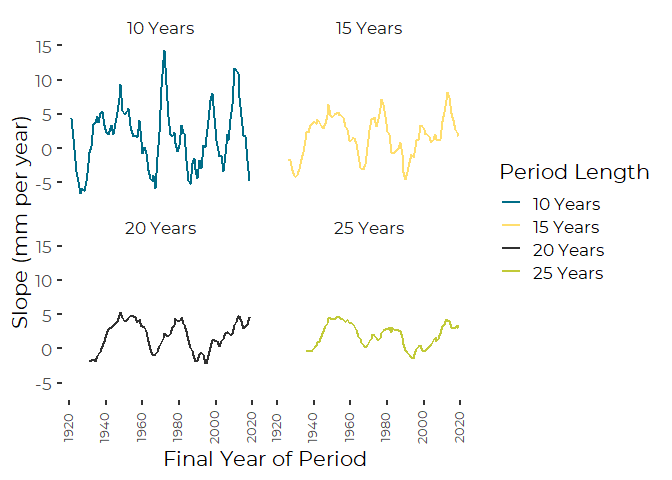
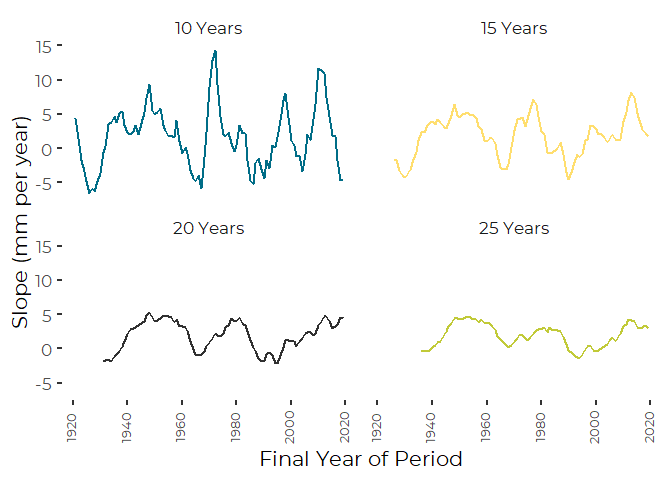
Drop unecessary legend from one figure

diff --git a/Analysis/SLR_Recent_Trends.md b/Analysis/SLR_Recent_Trends.md
@@ -768,7 +768,8 @@ plt
 
 ``` r
 plt +facet_wrap(~Span) +
-  theme(axis.text.x = element_text(size = 10, angle = 90, vjust = 0.25))
+  theme(axis.text.x = element_text(size = 10, angle = 90, vjust = 0.25)) +
+  theme(legend.position = "none")
 ```
 
 <img src="SLR_Recent_Trends_files/figure-gfm/panl_line_graph-1.png" style="display: block; margin: auto;" />
